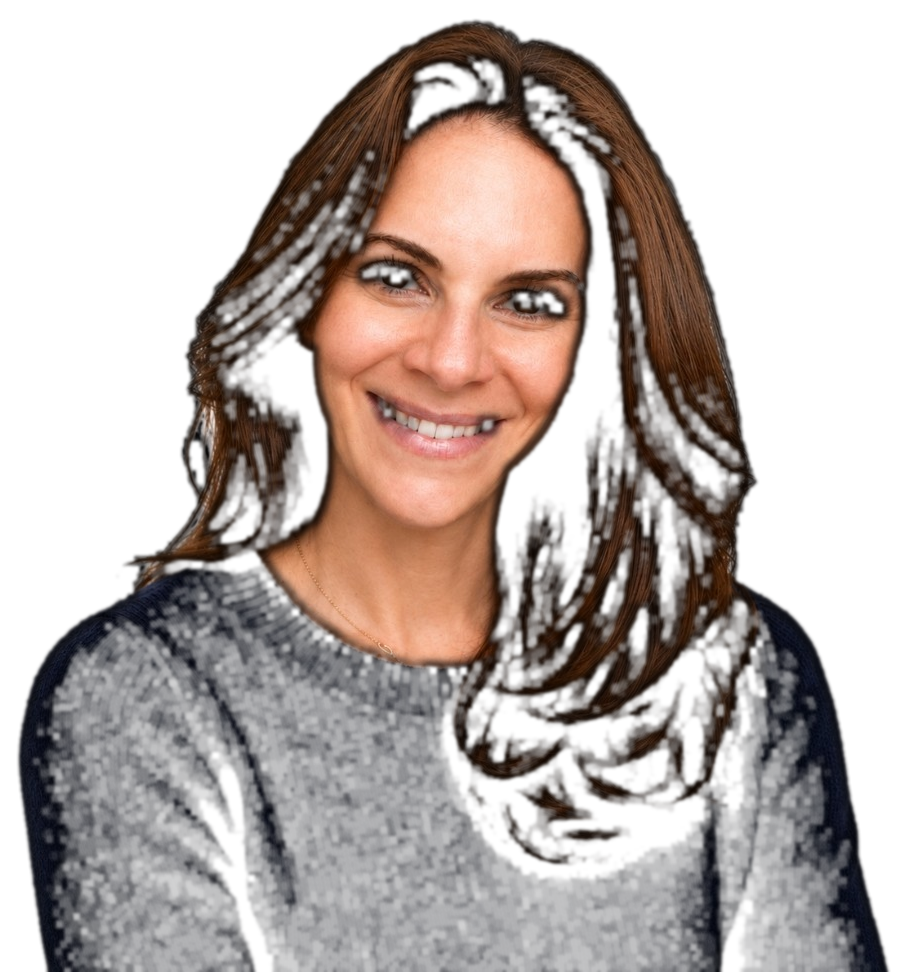
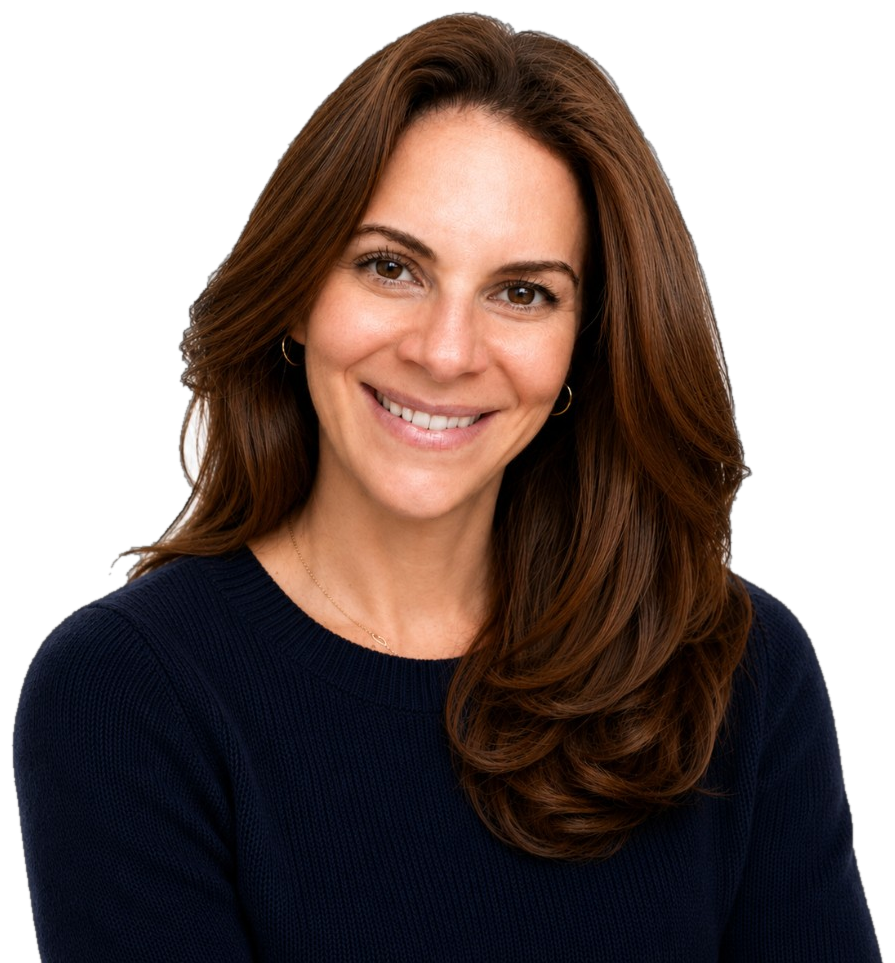
Restore About portrait using clean white-bg headshot cutout.
Re-keys from the light-background studio photo via flood-fill background
removal (subject edges intact, no halo) and reinstates the rhythm-break
portrait layout in About (06).

diff --git a/dossier.html b/dossier.html
@@ -37,7 +37,7 @@
                   For businesses that have outgrown how they run.
                 </p>
                 <h1 id="hero-title" data-reveal>
-                  Somewhere between the last reorg and now, the system stopped matching how the business actually runs.
+                  The system stopped matching how the business runs.
                 </h1>
               </div>
             </div>
@@ -46,11 +46,11 @@
               <div class="cover__statement-index" data-reveal>&mdash;</div>
               <div class="cover__statement-body" data-reveal>
                 <p class="cover__prelude">The problem usually isn't effort.</p>
-                <p class="cover__anchor">It's the system around the work.</p>
+                <p class="cover__anchor">Nobody built it wrong. It just didn't get rebuilt.</p>
                 <p class="cover__prose">
-                  Teams are moving. Decisions are being made. Tools are in place.
-                  Handoffs still break. Priorities drift. It isn't always obvious
-                  where execution is getting stuck.
+                  I get called in after a team has already tried the obvious fixes. More meetings.
+                  A new tool. A reminder in Slack to 'just follow the process.' None of it holds,
+                  because the problem was never the people in the room.
                 </p>
                 <p class="cover__capline">
                   I help scaling companies replace escalation-driven execution (the operational friction that builds as you grow) with operating systems that hold under scale.
@@ -121,27 +121,15 @@
               <div class="ledger" data-reveal>
                 <div class="ledger__row">
                   <span class="ledger__num">01</span>
-                  <h3>Deals slow down in the final stage with no clear owner.</h3>
+                  <h3>A deal's stuck in the final stage and nobody can tell you who's supposed to move it.</h3>
                 </div>
                 <div class="ledger__row">
                   <span class="ledger__num">02</span>
-                  <h3>Sellers create workarounds because the system does not match how enterprise actually moves.</h3>
+                  <h3>A rep built their own spreadsheet six months ago because the CRM never matched how the deal actually closes. Now three people are updating three different versions of the truth.</h3>
                 </div>
                 <div class="ledger__row">
                   <span class="ledger__num">03</span>
-                  <h3>The systems no longer match the business.</h3>
-                </div>
-                <div class="ledger__row">
-                  <span class="ledger__num">04</span>
-                  <h3>Work depends on memory, exceptions, and workarounds.</h3>
-                </div>
-                <div class="ledger__row">
-                  <span class="ledger__num">05</span>
-                  <h3>Modernization is happening without diagnosis.</h3>
-                </div>
-                <div class="ledger__row">
-                  <span class="ledger__num">06</span>
-                  <h3>Decisions lose context over time.</h3>
+                  <h3>Someone asks why a decision was made a certain way, and the honest answer is nobody remembers. The person who decided left, or just moved on.</h3>
                 </div>
               </div>
             </div>
@@ -414,8 +402,8 @@
               <img
                 src="assets/elanacaplan-portrait.png"
                 alt="Elana Caplan"
-                width="904"
-                height="972"
+                width="895"
+                height="963"
                 loading="lazy"
               />
             </figure>
